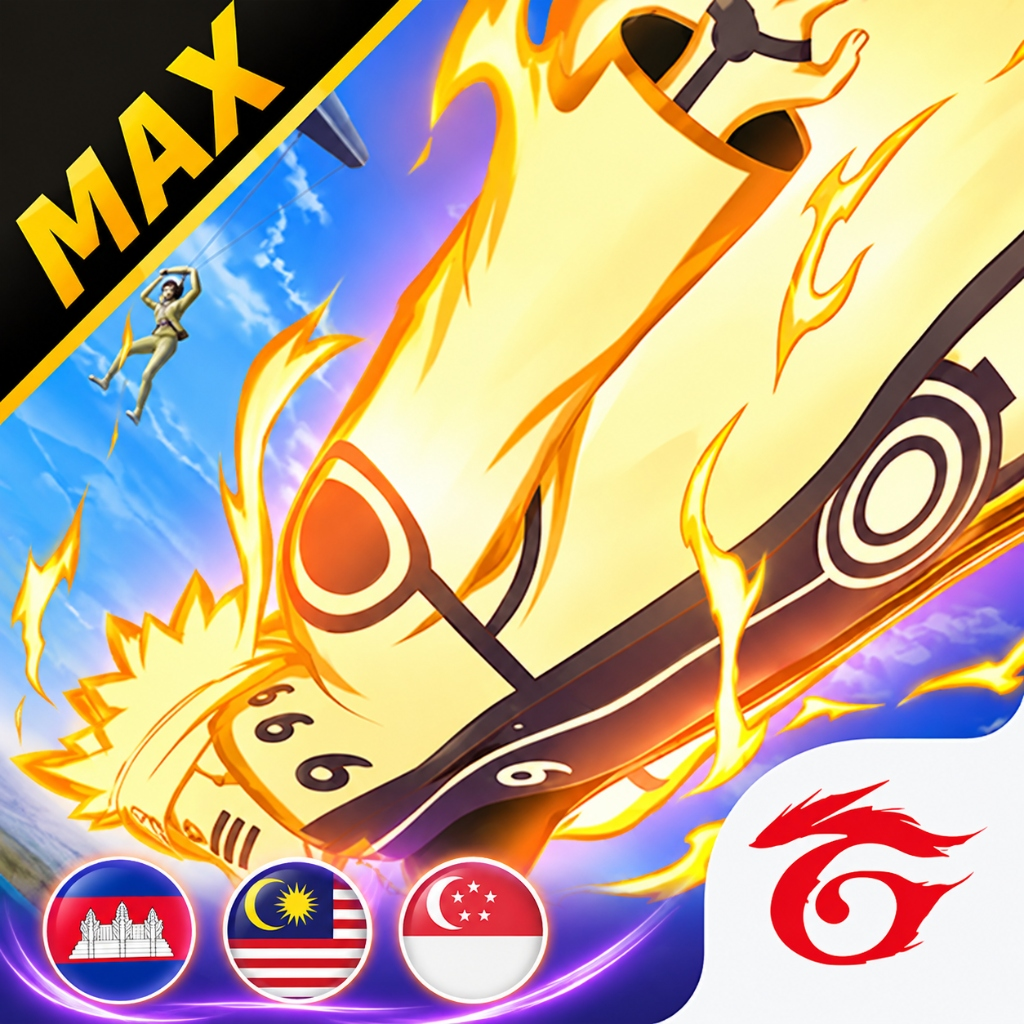
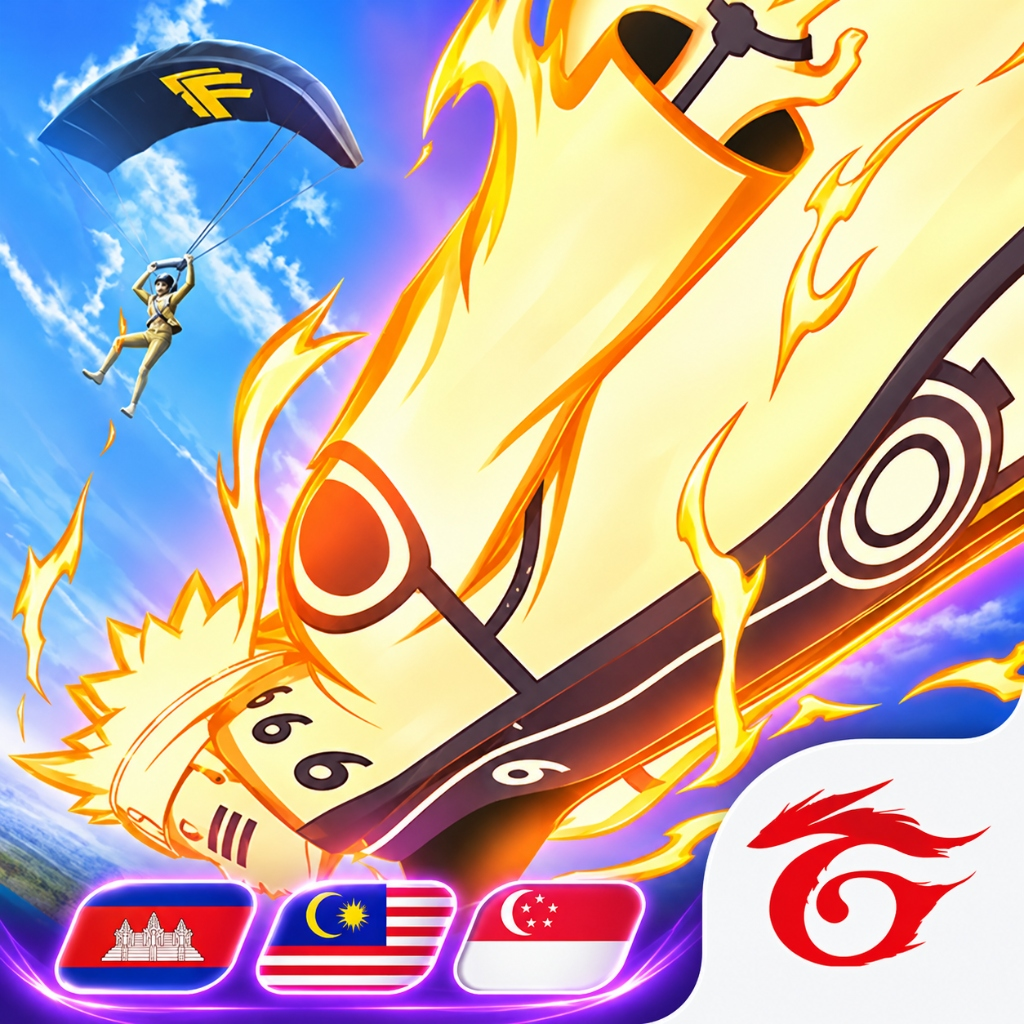
feat(game): update Free Fire cover to official non-MAX KHSGMY artwork with cache buster

diff --git a/src/lib/services/gameService.ts b/src/lib/services/gameService.ts
@@ -32,7 +32,7 @@ const LEGACY_MEMBERSHIP_ARTWORK: Record<string, string> = {
 // Current App Store cover art for the standard game catalogue. Admin-uploaded
 // customImage values still take priority over these defaults.
 const CURRENT_GAME_COVER_ART: Record<string, string> = {
-  "free-fire-khsgmy": "/images/freefire.jpg",
+  "free-fire-khsgmy": "/images/freefire.jpg?v=naruto",
   hok: "https://is1-ssl.mzstatic.com/image/thumb/Purple221/v4/10/e4/fe/10e4fe00-2610-bd44-4cab-f68e49518979/AppIcon-1x_U007emarketing-0-6-0-85-220-0.png/512x512bb.jpg",
   mlbb: "https://is1-ssl.mzstatic.com/image/thumb/Purple211/v4/81/36/47/81364792-25ad-a8fb-80ab-bbfa6523c6de/AppIcon-1x_U007emarketing-0-7-0-85-220-0.png/512x512bb.jpg",
   "pubg-mobile": "https://is1-ssl.mzstatic.com/image/thumb/Purple221/v4/4f/8d/38/4f8d3800-68b5-1c53-b0f7-7d46bda6a394/AppIcon-0-0-1x_U007emarketing-0-7-0-85-220.png/512x512bb.jpg",

diff --git a/src/lib/suppliers/webbuilderCatalogue.ts b/src/lib/suppliers/webbuilderCatalogue.ts
@@ -34,7 +34,7 @@ export const WEBBUILDER_GAMES: WebBuilderGameDefinition[] = [
     filter: isFreeFireKhsgmyProduct,
     requiresServer: false,
     userIdLabel: "Player ID (UID)",
-    image: "/images/freefire.jpg",
+    image: "/images/freefire.jpg?v=naruto",
     badge: "HOT",
     isPopular: true,
     sortOrder: 1,
